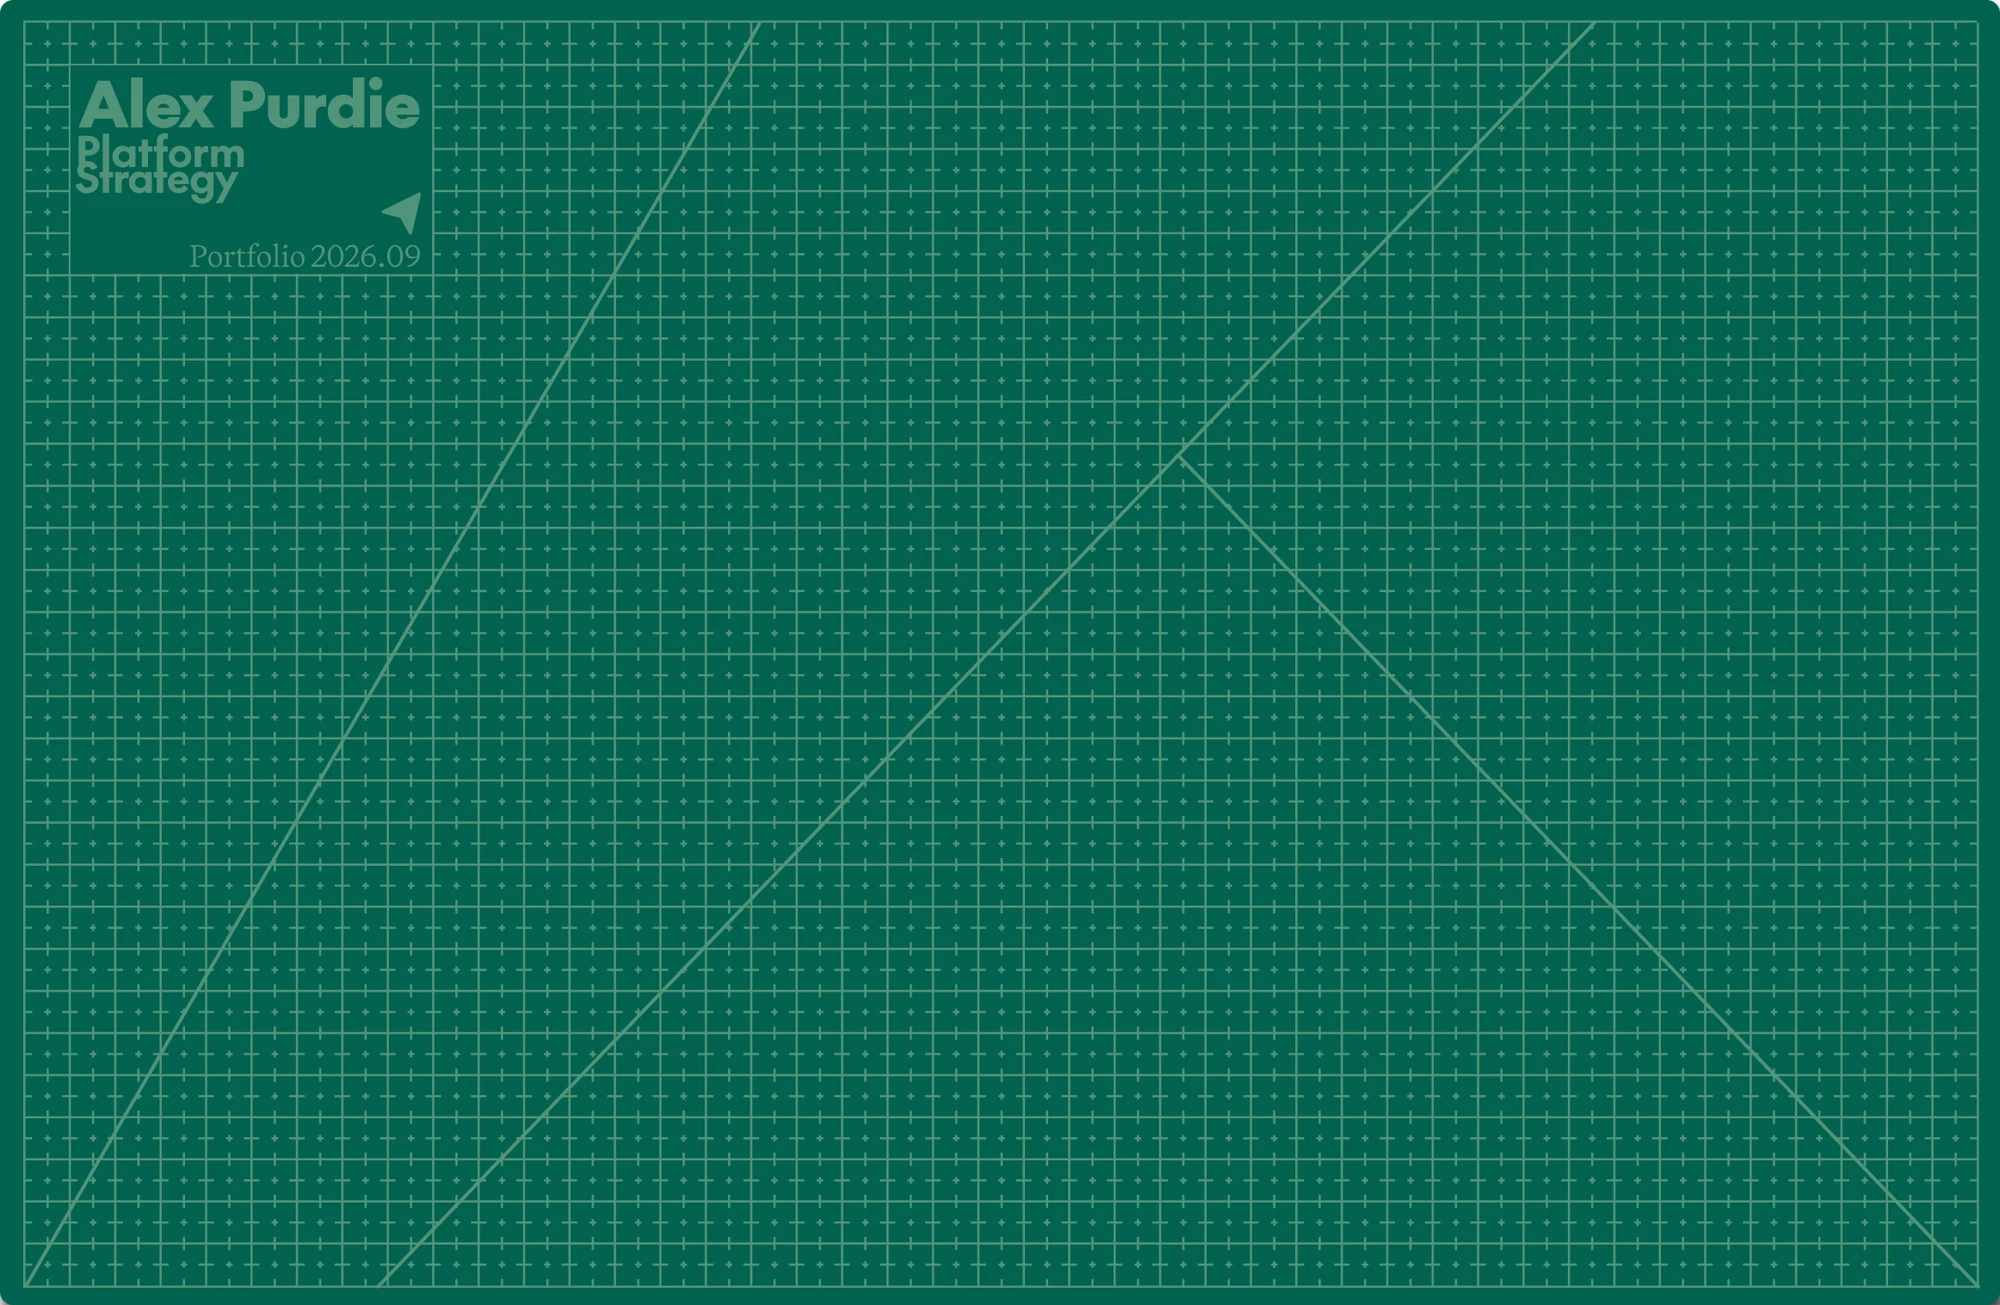
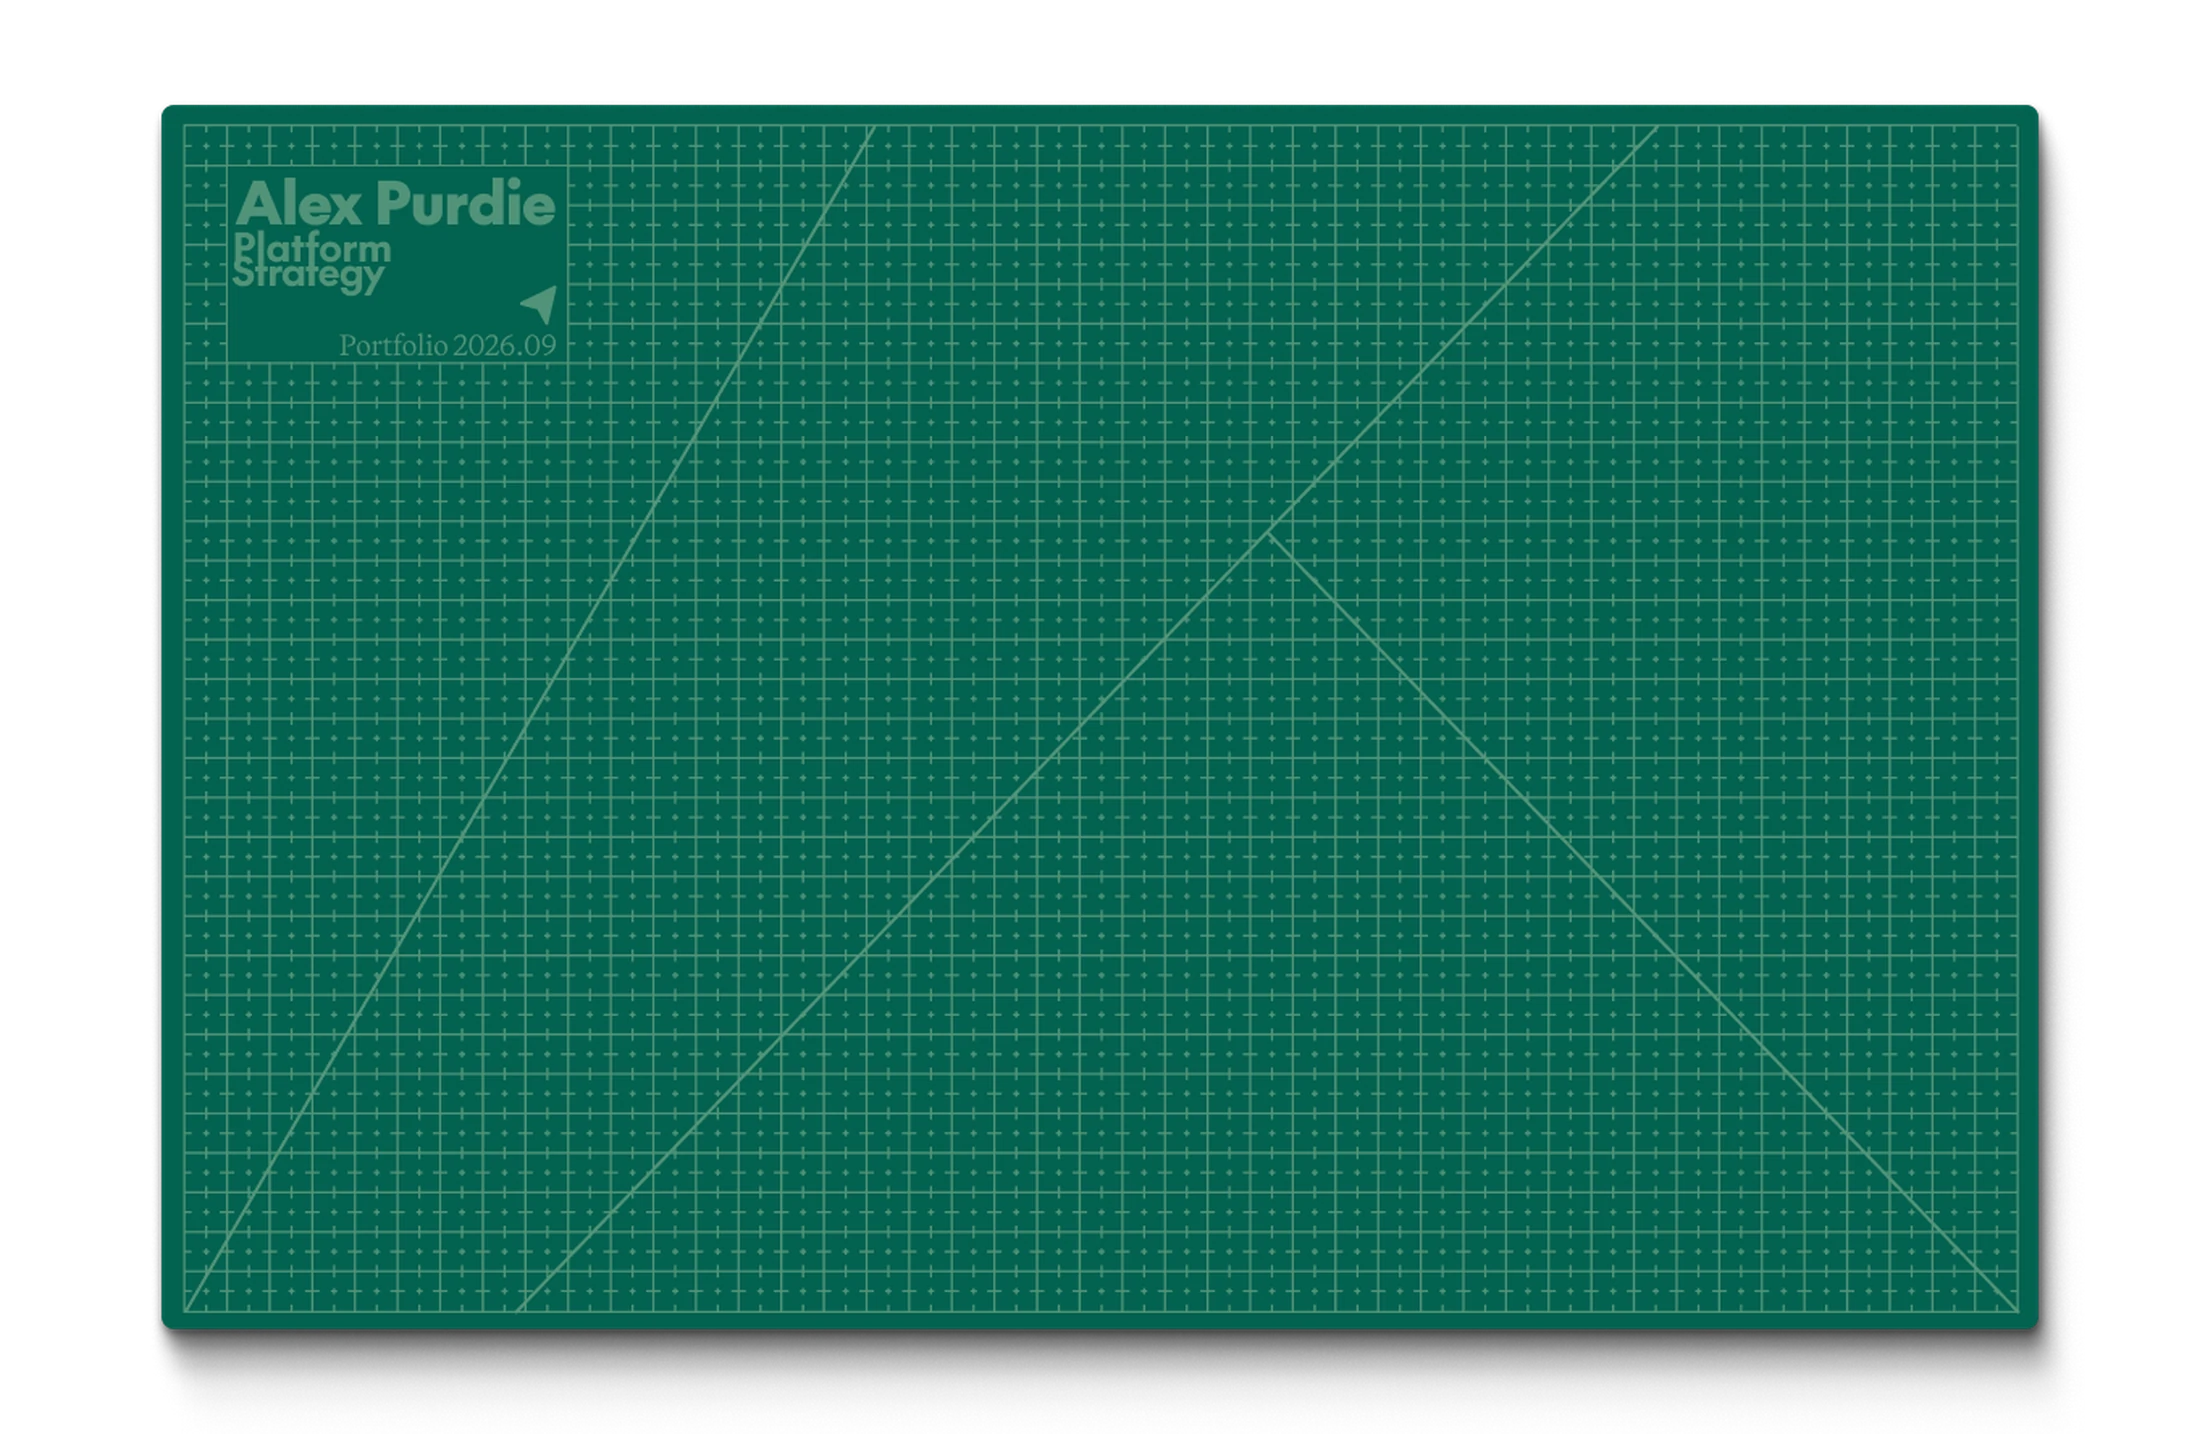
A mat that brings its own shadow
1362x888 around a green of exactly 1162x758 — the Figma node to the pixel
— with the drop shadow baked in. The padding is symmetric, 100 either side
and 65 top and bottom, so centring the box centres the green. Every
previous asset had lopsided padding, and re-deriving that correction by
hand is what kept going wrong.

The board is sized so the green lands at 875 of the stage's 1024, which is
75svh. The shadow is what pushes the element past the stage's own height.

Adds .desk__green, inset from the shadow by the asset's own fractions.
Anything that sits on the mat is measured against the green, not the file,
and the type on it scales from the green too — against the board the
padding would push the whole pile down and right by 7%.

Measured at 1440, 2400 and 1280 wide: 74.9svh, top 20.1, foot 5.0, side
margins even to within a pixel.

diff --git a/src/content/desk.ts b/src/content/desk.ts
@@ -76,23 +76,27 @@ export const LAPTOP = {
    now sits. Everything on the board is expressed as a fraction of `src`, so
    growing the board moves the pile, the masthead and the type with it.
 
-   Honestly centred, at last. Every earlier mat carried uneven transparent
-   padding inside its own file, so the box had to be nudged off true centre to
-   put the green in the middle — a correction that then had to be re-derived
-   every time the asset changed, and that silently became wrong when it did.
-   This asset is edge to edge, so (2022 - 1341) / 2 and (1024 - 875) / 2 are
-   simply right.
+   This asset carries its own drop shadow, so the file is bigger than the mat:
+   1362x888 around a green of exactly 1162x758 — the Figma node, to the pixel.
+   The padding is symmetric, 100 either side and 65 top and bottom, so
+   centring the box centres the green and no hand-measured correction is
+   needed. Every previous asset had lopsided padding, which is what kept going
+   wrong.
 
-   875 tall is what puts the mat on 75svh: it is 0.8545 of the stage, and the
-   stage is 87.8svh. The width follows from the asset's own 1.533 aspect. */
+   The element is sized so the green lands at 875 of the stage's 1024, which
+   is 75svh; the shadow is what pushes the box past the stage's own height. */
 export const BOARD = {
-  x: 340,
-  y: 74,
-  w: 1341,
-  h: 875,
-  /* The mat box in the frame this asset was cut from — 189:20353. The pile's
-     coordinates below are still in the previous frame's 1210x812 mat and will
-     need rebasing when it comes back on. */
+  x: 225,
+  y: 0,
+  w: 1572,
+  h: 1025,
+  /* Where the green sits inside the asset, as fractions of it. Anything placed
+     on the mat is positioned against the green, not against the file, or the
+     shadow's padding pushes it all down and right. */
+  inset: { x: 0.0734, y: 0.0732 },
+  /* The mat box in the frame this asset was cut from — 189:20353, which is the
+     same 1162x758. The pile's coordinates below are still in the previous
+     frame's 1210x812 mat and will need rebasing when it comes back on. */
   src: { x: 139, y: 207, w: 1162, h: 758 },
 } as const;
 

diff --git a/src/components/desk/desk-scene.tsx b/src/components/desk/desk-scene.tsx
@@ -121,6 +121,16 @@ export function DeskScene() {
           {/* eslint-disable-next-line @next/next/no-img-element */}
           <img alt="" aria-hidden className="desk__mat-img" src={asset(MAT.src)} />
 
+          {/* The green itself, inset from the asset's baked-in shadow. Anything
+              that sits on the mat goes in here, not in the board — against the
+              board it would be pushed down and right by the shadow. */}
+          <div
+            className="desk__green"
+            style={{
+              inset: `${BOARD.inset.y * 100}% ${BOARD.inset.x * 100}%`,
+            }}
+          >
+
           {/* The masthead is drawn into mat.svg. A screen reader still needs
               the name, so it is here and nowhere on screen. */}
           {SHOW.masthead ? <h1 className="sr-only">Alex Purdie — Platform Strategy, Portfolio 2026.09</h1> : null}
@@ -180,6 +190,7 @@ export function DeskScene() {
           })}
           </div>
           ) : null}
+          </div>
         </div>
 
         {/* ── Post-its ──────────────────────────────────────────────────── */}

diff --git a/src/app/lab/desk.css b/src/app/lab/desk.css
@@ -91,7 +91,7 @@ html.desk-locked body {
 }
 
 .desk__stage > *,
-.desk__board > *,
+.desk__green > *,
 .desk__pile > *,
 .desk__logos > * {
   position: absolute;
@@ -104,8 +104,16 @@ html.desk-locked body {
  * moved by changing one box.
  */
 .desk__board {
+  /* No radius and no shadow: this asset carries both. */
+  position: absolute;
+}
+
+/* The green area of the mat, inset from the asset's own drop shadow. This is
+   the box everything on the mat is measured against, and the container the
+   type on it scales from. */
+.desk__green {
+  position: absolute;
   container-type: inline-size;
-  border-radius: 6px;
 }
 
 /* The on-mat note is a grandchild of the board, and `display: contents` on its
